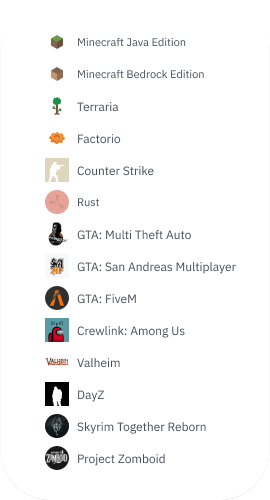
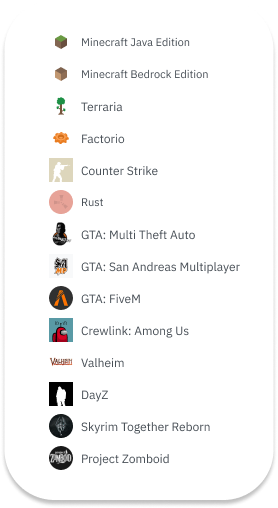
change games images

diff --git a/src/components/HelloWorld.vue b/src/components/HelloWorld.vue
@@ -130,8 +130,9 @@
     <div class="services">
       <p>Поддерживаемые игры и программы</p>
       <div class="services-games">
-        <img src="@/assets/games.png" />
-
+        <img src="@/assets/game1.png" />
+        <img src="@/assets/game2.png" />
+        <img src="@/assets/game3.png" />
       </div>
     </div>
     <!-- plans -->
@@ -663,18 +664,17 @@ a {
   font-size: 32px;
   padding-bottom: 20px;
 }
-.services {
-  margin: 50px 0px 50px 0px;
+.services-games {
+  display: flex;
+  justify-content: space-evenly;
 }
+
 .services p {
   text-align: center;
   color: #3f4d63;
   font-weight: 700;
   font-size: 32px;
   padding-bottom: 20px;
-}
-.services img {
-  margin-left: 180px;
 }
 #tarifPlans {
   text-align: center;
@@ -883,9 +883,9 @@ input[type="radio"]:checked + label {
   .services p {
     font-size: 22px;
   }
-  .services-games img {
-    margin: 0;
-    width: 400px;
+  .services-games {
+    flex-direction: column;
+    gap: 10px;
   }
   #tarifPlans {
     font-size: 22px;
